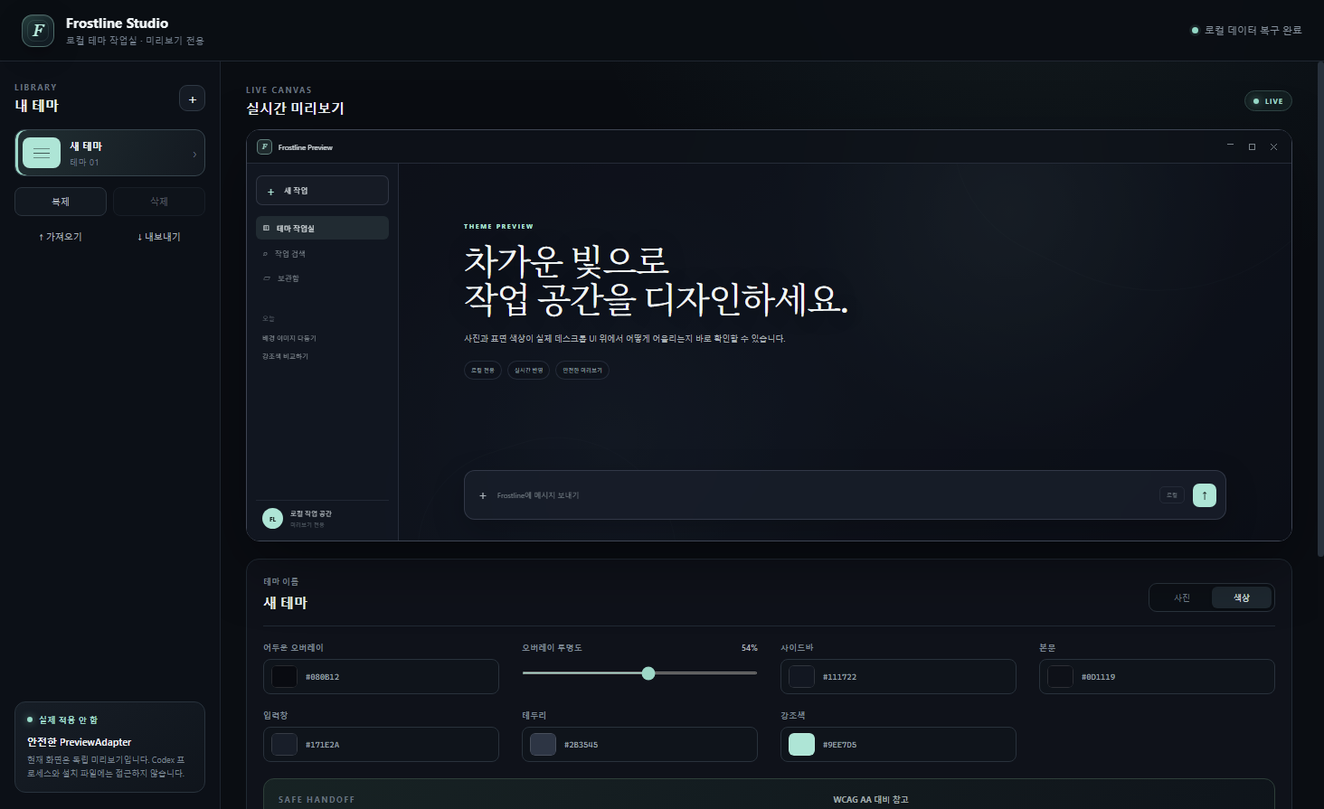
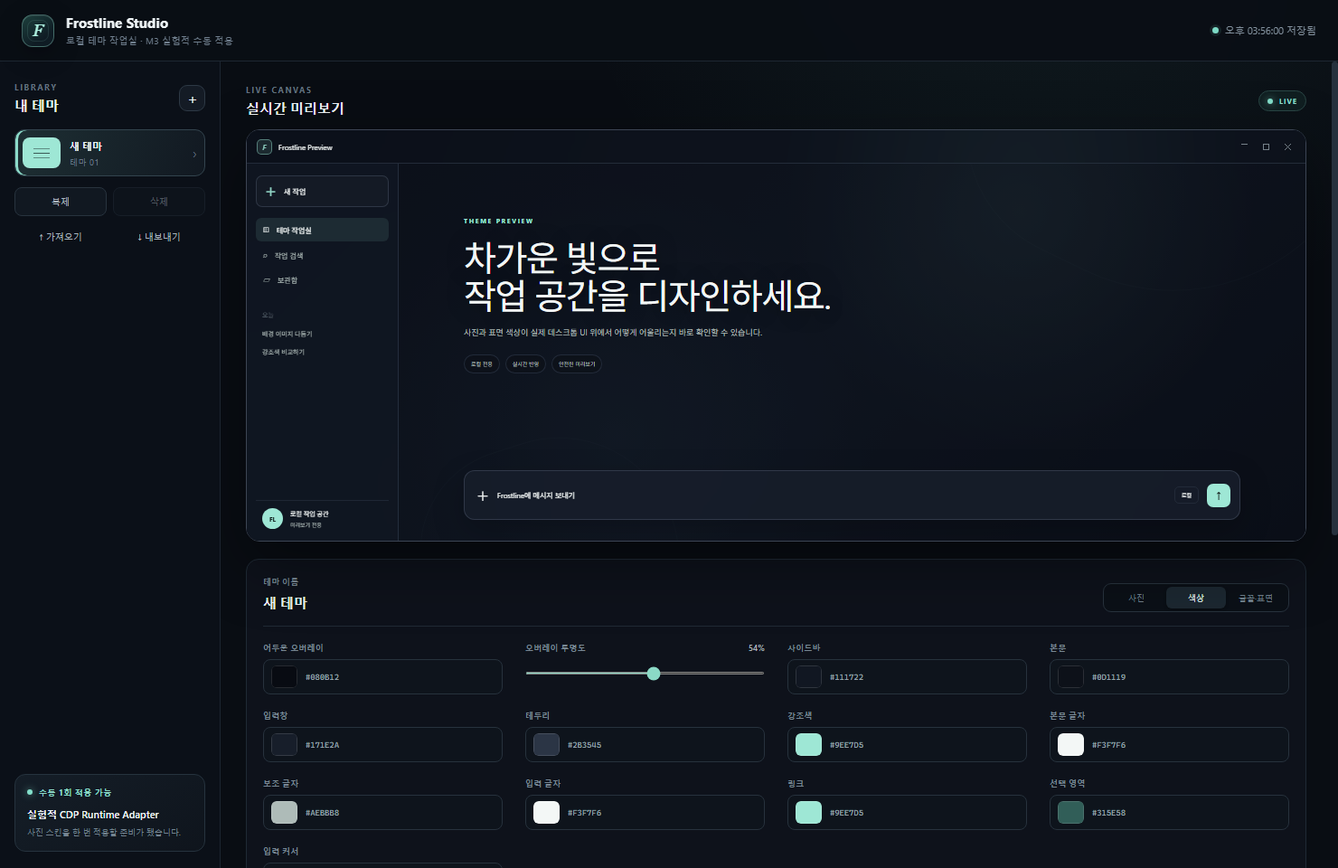
docs: document live Codex theme workflow

diff --git a/docs/testing.md b/docs/testing.md
@@ -30,8 +30,8 @@ npm.cmd run package:win
 ```
 
 - `lint`: Electron, React, 공유 타입, 테스트, 스크립트의 정적 규칙을 검사합니다.
-- `test`: 5개 테스트 파일의 16개 테스트를 실행합니다.
-- `build`: 기존 산출물을 정리하고 TypeScript 검사, Electron 컴파일, Renderer production build를 실행합니다.
+- `test`: 현재 9개 테스트 파일의 단위·UI 테스트 33개를 실행합니다.
+- `build`: 기존 산출물을 정리하고 TypeScript 검사, Windows Codex 실행 보조 프로그램 컴파일, Electron 컴파일, Renderer production build를 실행합니다.
 - `test:smoke`: 별도 임시 `userData`로 Electron을 두 번 실행합니다. 첫 실행에서 테마 이름과 밝기를 저장하고 두 번째 실행에서 같은 값이 복구되는지 확인합니다.
 - `screenshot`: production build 뒤 빈 임시 `userData`로 앱을 숨김 실행하고 공개용 PNG를 생성합니다. 개인 사진과 기존 로컬 설정을 읽지 않습니다.
 - `package:win`: `release/`를 안전하게 정리하고 unsigned x64 NSIS 설치 파일을 생성합니다. 이어서 ASAR 허용 목록과 민감정보 패턴을 검사하고 임시 폴더에 설치·실행·재실행·제거한 뒤 최종 파일의 SHA-256 목록을 만듭니다.
@@ -44,8 +44,17 @@ npm.cmd run package:win
 - 저장 요청이 겹쳐도 마지막 상태가 남음
 - 같은 프로세스 ID에 자동 적용을 두 번 시도하지 않는 상태 전이
 - 한 번 실패하면 수동 재시도 전까지 회로 차단 상태 유지
-- M1 UI에서 실제 Codex 적용과 자동 적용 버튼이 비활성 상태
-- WCAG 대비 계산과 읽기 쉬운 전경색 선택
+- M3 UI에서 수동 적용과 복원만 활성화되고 M4 자동 적용은 비활성 상태
+- 실행 중인 Codex를 앱이 닫지 않고 사용자 수동 종료를 요구함
+- 수동 종료 뒤 Codex 실행과 CDP 주입이 각각 한 번만 호출됨
+- 주입 실패 뒤 자동 재시도하지 않고 사용자의 다음 동작을 기다림
+- 주입한 Frostline 스타일만 복원함
+- 이미지 디코딩, 자연 크기, DOM 연결과 화면 크기를 확인한 뒤에만 적용 성공으로 판정함
+- 채팅 문자열을 읽지 않는 최소 호환성 프로필을 먼저 통과함
+- 활성 세션 갱신이 Codex를 추가로 실행하지 않음
+- 글자 역할별 WCAG 대비 계산과 읽기 쉬운 전경색·입력 커서 대체색 선택
+- BGRA 사진 표본 기반 추천 팔레트와 모드별 표면 불투명도
+- v1 로컬 작업 공간을 v2로 원자적으로 변환함
 - 수동 Appearance 가이드가 자동 적용을 주장하지 않는지 확인
 - 공개 예시 테마를 실제 가져오기 경로로 불러오기
 - UI에서 가이드 복사가 검증된 preload IPC만 사용하는지 확인
@@ -59,6 +68,21 @@ npm.cmd run package:win
 
 2026-08-12에 사용자가 README의 직접 확인 항목 1~6을 모두 정상 작동한다고 확인했습니다. 여기에는 원본 사진을 옮긴 뒤의 표시 유지, 실시간 편집 반영, 테마 관리와 가져오기·내보내기, 재실행 뒤 복구, M1 적용 버튼 비활성 상태가 포함됩니다.
 
-M2에서는 공식 문서와 로컬 프로세스의 기본 메타데이터만 읽기 전용으로 확인했습니다. 실제 Codex 테마 적용이나 복원은 테스트하지 않았으며 구현도 추가하지 않았습니다.
+M2에서는 공식 문서와 로컬 프로세스의 기본 메타데이터만 읽기 전용으로 확인했습니다.
+
+2026-08-13에는 이전 M3 구현을 Windows Store Codex `26.803.10989.0`에 실제 적용하고 복원하는 과정까지 사용자가 확인했습니다. 사진이 표시됐지만 첫 적용 성공 판정이 간헐적으로 실패했고 흰 입력창에서 입력 커서가 보이지 않는 문제를 발견했습니다. 이번 수정은 명시적 이미지 레이어, 입력 역할별 색상, 공통 토큰과 라이브 갱신으로 원인을 보완했으며 새 패키지에서 직접 회귀 검증해야 합니다.
 
 M5 자동 검증은 별도 임시 설치 경로에서 성공했습니다. 실제 바탕 화면 바로가기, Windows의 대화형 설치·제거 화면, SmartScreen 표시 상태는 사용자 환경에서 직접 확인해야 합니다. 코드 서명 인증서가 없으므로 게시자 신뢰 확인은 통과했다고 주장하지 않습니다.
+
+## 2026-08-13 최신 검증 결과
+
+| 명령 | 결과 | 확인 범위 |
+| --- | --- | --- |
+| `npm.cmd run lint` | 통과 | Electron, Renderer, 공유 타입과 테스트 정적 규칙 |
+| `npm.cmd test -- --run` | 9개 파일, 33개 테스트 통과 | 마이그레이션, 추천, UI, M3 적용·갱신·복원 |
+| `npm.cmd run build` | 통과 | TypeScript, Windows 보조 프로그램, Electron, Vite production build |
+| `npm.cmd run test:smoke` | 통과 | 빈 임시 `userData`의 저장과 Electron 재실행 복구 |
+| `npm.cmd run package:win` | 통과 | x64 NSIS, ASAR·비밀정보 검사, 임시 설치·재실행·제거, 체크섬 |
+| `npm.cmd run screenshot` | 통과 | 빈 임시 `userData`의 오프스크린 공개 스크린샷 |
+
+설치 파일은 `Frostline-Studio-0.2.0-Setup-x64.exe`이며 최종 패키지 검사 당시 크기는 100,467,342바이트였습니다. 빌드는 코드 서명되지 않았습니다.

diff --git a/docs/architecture.md b/docs/architecture.md
@@ -21,7 +21,12 @@ Electron main
   ├─ userData/images로 사진 복사
   ├─ 임시 파일 + 교체 방식의 설정 저장
   ├─ 테마 가져오기/내보내기
-  └─ 검증된 수동 Appearance 가이드만 클립보드에 복사
+  ├─ 관리 사진의 축소 BGRA 표본으로 로컬 추천 팔레트 계산
+  ├─ 검증된 수동 Appearance 가이드를 클립보드에 복사
+  └─ OfficialCodexAdapter
+       ├─ Windows 보조 프로그램: 패키지 ID 확인과 1회 실행
+       ├─ 127.0.0.1 CDP 대상 및 포트 소유자 검증
+       └─ 선택한 Renderer 하나에 사진 레이어와 테마 토큰 주입·갱신·제거
 ```
 
 Renderer에는 Node 전역 객체와 파일 경로가 노출되지 않습니다. 사진은 임의 파일 경로 대신 앱이 관리하는 읽기 전용 `frostline-asset://` URL로 표시합니다.
@@ -30,22 +35,25 @@ Renderer에는 Node 전역 객체와 파일 경로가 노출되지 않습니다.
 
 ## Adapter 경계
 
-- `PreviewAdapter`: React 안에서 CSS로만 렌더링합니다. 외부 프로세스 접근 권한이 없습니다.
-- `OfficialCodexAdapter`: M2 조사 결과 외부 프로그램용 공식 테마 적용 API가 확인되지 않아 기능을 모두 비활성화한 타입 계약으로 유지합니다.
+- `PreviewAdapter`: React 안에서 공통 테마 토큰으로만 렌더링합니다. 외부 프로세스 접근 권한이 없습니다.
+- `OfficialCodexAdapter`: 사용자 승인을 받은 실험적 M3 경계입니다. 실행 중인 Codex가 있으면 적용하지 않고 사용자의 정상 종료를 기다립니다. 이후 확인한 패키지 ID를 사용해 Codex를 한 번 실행하고, loopback CDP의 정확한 메인 Renderer 한 곳에만 사진 스킨을 주입합니다. 활성 세션에서는 새 프로세스 없이 같은 표식의 레이어만 갱신하며 첫 실패에 라이브 연결을 잠급니다.
 - `AppServerClientAdapter`: 공식 Codex App Server를 활용하는 독립 클라이언트가 필요할 때 검토할 미래 경계입니다. 공식 데스크톱 앱의 UI를 수정하는 Adapter가 아닙니다.
 
-Adapter가 분리되어 있어도 안전 승인이 생기는 것은 아닙니다. M3를 시작하려면 공식적으로 지원되는 적용 수단이 새로 확인되어야 하며, 그 뒤에도 사용자 승인이 별도로 필요합니다. 현재 결정의 근거는 [ADR-0001](adr/0001-codex-integration-boundary.md)에 기록했습니다.
+Adapter가 분리되어 있어도 공식 지원이나 안전 승인이 생기는 것은 아닙니다. M2의 공식 API 부재 결정은 [ADR-0001](adr/0001-codex-integration-boundary.md), 사용자가 승인한 M3의 제한된 CDP 결정은 [ADR-0002](adr/0002-loopback-cdp-runtime-skin.md)에 기록했습니다.
 
 ## 데이터 구조
 
 ```text
 Electron userData/Frostline Studio/
   ├─ themes.json
+  ├─ codex-cdp-session.json
   └─ images/
        └─ <random-uuid>.<approved-extension>
 ```
 
-원본 경로는 저장하지 않습니다. 앱 전용 사진은 무작위 파일명으로 복사하며 Renderer에는 관리 URL만 전달합니다. `themes.json`은 버전이 있는 JSON 문서입니다.
+원본 경로는 저장하지 않습니다. 앱 전용 사진은 무작위 파일명으로 복사하며 Renderer에는 관리 URL만 전달합니다. `themes.json`은 버전이 있는 JSON 문서이며 v1 데이터는 v2로 명시적으로 변환합니다. `codex-cdp-session.json`에는 사진이나 계정 데이터가 아니라 단계, 무작위 포트, 확인된 앱 ID, 주입 표식만 원자적으로 저장합니다.
+
+미리보기와 실제 Codex 컴파일러는 `resolveThemeTokens`를 함께 사용합니다. 이 공통 계층에서 표면 불투명도, 읽기 쉬운 글자·입력 커서 대체색, UI·코드 글꼴 스택을 계산하므로 두 화면의 색상 해석이 달라지는 범위를 줄입니다. 실제 Codex의 레이아웃과 자체 컴포넌트는 Frostline이 복제하지 않으므로 픽셀 단위로 완전히 같아지는 것은 보장하지 않습니다.
 
 ## Windows 배포 구조
 
@@ -79,4 +87,4 @@ disabled
 모든 활성 상태 ── EMERGENCY_STOP → emergency-stopped
 ```
 
-`handledProcessIds`로 같은 Codex 프로세스 ID에 두 번 적용하지 않습니다. 실패하면 회로 차단 상태가 되어 자동 재시도를 막습니다. M0/M1에서는 상태 머신만 정의하고 운영체제 이벤트나 Codex 프로세스와 연결하지 않습니다.
+`handledProcessIds`로 같은 Codex 프로세스 ID에 두 번 자동 적용하지 않습니다. 실패하면 회로 차단 상태가 되어 자동 재시도를 막습니다. 이 상태 머신은 아직 M4 운영체제 이벤트나 자동 시작에 연결하지 않았습니다. 현재 M3는 별도의 수동 `waiting-for-exit → armed → active` 세션만 사용하며, `active` 안의 라이브 갱신은 새 Codex 실행이나 새 CDP 세션을 만들지 않습니다.

diff --git a/docs/adr/0002-loopback-cdp-runtime-skin.md b/docs/adr/0002-loopback-cdp-runtime-skin.md
@@ -1,0 +1,50 @@
+# ADR-0002: Experimental loopback CDP runtime skin
+
+- Status: Accepted for manual M3 sessions
+- Date: 2026-08-13
+- Scope: M3 manual initial apply, same-session live update and restore
+
+## Context
+
+공식 Codex Appearance에는 색상과 글꼴 설정이 있지만 사진 배경을 외부 프로그램에서 적용하는 공개 API는 확인되지 않았습니다. 사용자는 이 제한을 이해한 뒤, 설치 파일이나 사용자 데이터는 수정하지 않으면서 현재 실행 화면에 사진을 적용할 수 있는 비공식 방법을 명시적으로 요청하고 다음 안전 조건을 승인했습니다.
+
+- 사용자가 Codex를 직접 정상 종료합니다.
+- Frostline Studio는 Codex를 강제 종료하거나 반복 실행하지 않습니다.
+- 연결은 `127.0.0.1`에만 열고 짧은 타임아웃을 사용합니다.
+- 한 번 실패하면 자동 재시도하지 않습니다.
+- 패키지, 설치 파일, `.codex`, `AGENTS.md`, 로그인·채팅 데이터는 수정하지 않습니다.
+
+## Decision
+
+1. `OfficialCodexAdapter`는 M3의 수동 적용과 복원만 제공합니다. 자동 적용 capability는 계속 `false`입니다.
+2. 실행 중인 Codex가 있으면 확인한 AUMID만 세션에 저장하고 적용을 중단합니다. 앱을 닫는 기능은 구현하지 않습니다.
+3. 사용자가 Codex를 종료하고 다시 적용을 누르면 Windows `IApplicationActivationManager`로 확인된 AUMID를 한 번 실행합니다. 인수는 loopback 주소와 무작위 CDP 포트뿐입니다.
+4. Windows TCP 테이블에서 포트 소유자의 AUMID가 앞서 확인한 Codex와 같은지 검증합니다.
+5. CDP 대상은 URL이 정확히 `app://-/index.html`인 page 하나만 허용합니다.
+6. 채팅 내용은 읽지 않고 문서 루트, Electron 창 유형과 알려진 표면 선택자 개수만 확인하는 호환성 프로필을 통과해야 합니다.
+7. 선택한 관리 사진을 data URL로 만들고 명시적인 `<div><img>` 레이어와 공통 테마 토큰 CSS를 고유 ID로 주입합니다.
+8. 적용 성공은 고유 표식, 이미지 디코딩, 자연 크기, DOM 연결, 화면 크기와 `pointer-events: none`을 같은 명령의 결과로 확인합니다.
+9. 활성 세션의 라이브 갱신은 같은 target ID와 표식을 재검증한 뒤 기존 레이어만 교체합니다. 새 Codex 프로세스나 새 포트를 만들지 않습니다.
+10. 라이브 갱신이 실패하면 이전 정상 레이어를 유지하고 UI의 라이브 연결을 잠급니다. 사용자가 수동 재연결을 누르기 전에는 다음 시도를 하지 않습니다.
+11. 복원은 고유 표식이 일치할 때 Frostline style과 레이어만 제거합니다. 원래 앱 파일이나 설정은 건드리지 않습니다.
+12. 모든 단계에는 제한 시간이 있으며 실패 후 반복 폴링이나 자동 재시도를 하지 않습니다. 수동 재시도는 사용자가 버튼을 다시 누른 경우에만 시작합니다.
+
+## Security and compatibility risks
+
+- CDP는 인증이 없는 로컬 디버깅 인터페이스입니다. loopback과 무작위 포트로 노출 범위를 줄이지만 같은 사용자 권한의 악성 로컬 프로그램까지 차단하지는 못합니다.
+- Codex가 실행되는 동안 CDP 포트가 유지됩니다. 사용을 마치면 Codex를 정상 종료해야 포트가 닫힙니다.
+- 앱 업데이트로 AUMID, 실행 인수 처리, 대상 URL, DOM 또는 CSS가 바뀌면 적용이나 복원이 실패할 수 있습니다.
+- 런타임 스타일은 프로세스 메모리에만 있으므로 Codex를 종료하면 사라집니다.
+- 일부 스타일만 적용되는 실패 가능성을 줄이기 위해 적용 직후 확인하고, 실패 시 같은 세션에서 Frostline style 제거를 한 번 시도합니다. 이 제거 시도는 적용 재시도가 아닙니다.
+
+## Rejected alternatives
+
+- 강제 종료와 재실행: 사용자 데이터 손실 위험과 명시된 금지 규칙 때문에 제외합니다.
+- `app.asar`, Store 패키지, 설치 파일 수정: 서명과 업데이트 무결성을 훼손하므로 제외합니다.
+- `.codex`나 내부 상태 파일 수정: 계정·대화 데이터 경계를 침범할 수 있어 제외합니다.
+- 주기적 폴링과 자동 재시도: 같은 실패를 반복할 수 있어 M3에서 제외합니다.
+- 다른 테마 프로그램의 호출 또는 코드·이미지 복사: 독립성과 라이선스 경계를 위해 제외합니다.
+
+## Validation target
+
+첫 수동 검증 대상인 Windows Store Codex `26.803.10989.0`에서 이전 구현의 실제 사진 적용과 복원은 사용자가 확인했습니다. 그 과정에서 첫 적용 판정의 간헐적 실패와 입력 커서 가독성 문제를 발견했습니다. 이번 명시적 이미지 레이어, 공통 토큰과 라이브 갱신 수정본은 같은 버전에서 회귀 검증하기 전까지 완료로 표시하지 않습니다.

diff --git a/docs/limitations.md b/docs/limitations.md
@@ -1,16 +1,23 @@
 # Known limitations
 
-## 미리보기 제품 범위
+## 제품 범위
 
-- 미리보기는 Codex에서 영감을 받은 독립 UI이며 실제 Codex 화면을 복제하거나 수정하지 않습니다.
-- 실제 Codex 적용과 복원 버튼은 비활성 상태로 표시됩니다.
+- 미리보기는 Codex에서 영감을 받은 독립 UI입니다.
+- 실제 Codex 적용과 복원은 사용자가 승인한 실험적 M3 기능입니다. 공식 OpenAI API가 아닙니다.
+- 실행 중인 Codex가 있으면 사용자가 직접 정상 종료해야 하며 Frostline Studio는 강제로 닫지 않습니다.
+- 스타일은 현재 실행 중인 Renderer 메모리에만 존재하므로 Codex를 종료하면 사라집니다.
+- Codex 업데이트로 앱 ID, 실행 인수, 대상 URL, DOM 또는 CSS 구조가 바뀌면 동작하지 않을 수 있습니다.
+- 적용 전 호환성 프로필은 루트, 창 유형과 알려진 선택자 개수만 확인합니다. 사용자 채팅 문자열은 읽지 않지만 이후 Codex 업데이트의 모든 UI 변경을 예측할 수는 없습니다.
+- 미리보기와 실제 적용은 같은 테마 토큰을 사용하지만 Codex 자체 레이아웃과 컴포넌트까지 복제하지 않으므로 픽셀 단위로 같지는 않습니다.
+- 라이브 갱신은 현재 검증된 세션에서만 동작합니다. 한 번 실패하면 이전 정상 화면을 유지하고 자동 갱신을 잠그며 사용자가 수동으로 다시 연결해야 합니다.
+- CDP가 열린 동안 같은 Windows 사용자 권한의 다른 로컬 프로그램이 디버깅 포트에 접근할 가능성을 완전히 없앨 수 없습니다.
 - Windows 자동 시작과 프로세스 이벤트 감지는 구현하지 않습니다.
 - Windows x64 NSIS 설치 파일은 제공하지만 ARM64 설치 파일과 Microsoft Store 패키지는 제공하지 않습니다.
 - 설치 파일은 코드 서명되지 않았으므로 Windows SmartScreen이 게시자를 확인할 수 없다는 경고를 표시할 수 있습니다.
 - 제거 프로그램은 사용자 사진과 테마가 들어 있는 앱 전용 데이터를 자동 삭제하지 않습니다. 완전 삭제가 필요하면 사용자가 앱 전용 데이터 폴더를 별도로 정리해야 합니다.
 - 가져오기 파일은 Frostline Studio JSON 형식만 지원합니다.
 - 앱 전용 데이터 폴더에서 참조되지 않는 이미지 정리는 저장 성공 뒤에만 수행합니다.
-- 접근성 검사는 강조색을 일반 텍스트처럼 사용할 때의 WCAG AA 4.5:1 기준을 참고값으로 보여 줍니다. 전체 UI 접근성 인증을 의미하지 않습니다.
+- 접근성 검사는 본문·보조·입력·링크·입력 커서 색상의 WCAG 대비를 참고값으로 보여 줍니다. 투명 표면 뒤 사진의 모든 픽셀이나 전체 UI 접근성 인증을 의미하지 않습니다.
 - Appearance 가이드는 색상값을 클립보드에 복사할 뿐 공식 Codex 앱을 자동으로 변경하지 않습니다.
 
 ## M2에서 확인한 공식 지원 범위
@@ -21,9 +28,9 @@
 - 공식 App Server는 인증, 대화 기록, 승인, 이벤트 스트리밍 같은 독립 클라이언트 기능을 제공합니다. 공식 데스크톱 앱의 UI 스타일을 변경하는 API로 문서화되어 있지 않습니다.
 - 외부 프로그램이 공식 데스크톱 앱의 테마를 가져오거나 적용하거나 복원하는 공식 API는 확인되지 않았습니다.
 
-문서에 없다는 사실만으로 내부 구현까지 절대 불가능하다고 단정할 수는 없습니다. 다만 공개 포트폴리오에서 지원 가능한 기능으로 표시할 근거가 없으므로 현재는 적용 기능을 구현하지 않습니다. DOM/CSS 주입, 원격 디버깅 연결, 패키지 수정, 내부 상태 파일 수정은 공식 지원이 아니며 안전·업데이트 호환성 기준을 충족하지 못해 채택하지 않습니다.
+문서에 없다는 사실만으로 내부 구현까지 절대 불가능하다고 단정할 수는 없습니다. M3는 이 한계를 분명히 표시한 실험적 기능이며, DOM/CSS 런타임 주입과 CDP 연결을 사용합니다. 패키지 수정과 내부 상태 파일 수정은 계속 금지합니다. 현재 확인 대상은 Windows Store Codex `26.803.10989.0`이며 다른 버전의 성공을 보장하지 않습니다.
 
-자세한 조사 범위와 로컬 확인 결과는 [M2 연동 가능성 조사](integration-research.md), 결정 근거는 [ADR-0001](adr/0001-codex-integration-boundary.md)에 기록했습니다.
+자세한 조사 범위와 로컬 확인 결과는 [M2 연동 가능성 조사](integration-research.md), M3 결정과 위험은 [ADR-0002](adr/0002-loopback-cdp-runtime-skin.md)에 기록했습니다.
 
 ## 라이선스와 공개 상태
 

diff --git a/docs/safety.md b/docs/safety.md
@@ -38,9 +38,27 @@
 - 제거 시 앱 전용 데이터를 자동 삭제하지 않습니다. 사용자가 고른 사진과 테마가 예상치 못하게 사라지는 일을 막기 위한 정책입니다.
 - 현재 빌드는 코드 서명되지 않았습니다. SmartScreen 경고를 우회하도록 안내하지 않으며, 릴리스에는 서명 상태와 SHA-256 검증 방법을 표시합니다.
 
-## 향후 단계의 승인 지점
+## M3 수동 적용 경계
 
-M2 조사에서는 외부 프로그램이 공식 Codex 앱에 사진 배경이나 테마를 적용하는 공식 API를 확인하지 못했습니다. 따라서 현재 상태에서는 사용자 승인만으로 M3를 시작하지 않습니다. 공식적으로 지원되는 수단이 새로 확인되면 안전성 검토와 테스트 계획을 먼저 작성하고, 사용자가 별도로 명시적으로 승인해야 수동 1회 적용을 시작합니다. M4 자동 적용은 M3가 충분히 검증된 뒤 다시 승인받아야 합니다.
+M2 조사에서는 공식 사진 배경 API를 확인하지 못했습니다. 이후 사용자가 비공식 런타임 방식의 위험을 이해하고 M3를 명시적으로 승인해, 다음 제한 아래 loopback CDP 실험을 구현했습니다.
+
+- Frostline Studio는 실행 중인 Codex를 닫지 않습니다. 사용자가 직접 정상 종료해야 다음 단계로 진행합니다.
+- Windows 보조 프로그램은 확인한 Codex 패키지 ID로 한 번만 실행하며 종료 API를 포함하지 않습니다.
+- CDP는 `--remote-debugging-address=127.0.0.1`과 무작위 포트만 사용합니다.
+- 포트 소유 프로세스의 패키지 ID가 앞서 확인한 Codex와 같아야 연결합니다.
+- 대상 URL이 정확히 `app://-/index.html`인 page Renderer가 하나일 때만 주입합니다.
+- 적용과 검증에는 짧은 타임아웃을 사용하며 실패 후 자동 재시도하지 않습니다.
+- 활성 세션의 라이브 갱신은 새 프로세스를 시작하지 않고 같은 target ID와 표식을 다시 확인합니다.
+- 라이브 갱신이 한 번 실패하면 이전 정상 화면을 유지하고 연결을 잠급니다. 사용자가 수동 재연결을 눌러야만 다음 시도를 시작합니다.
+- 호환성 검사는 화면 구조의 존재와 개수만 반환하며 채팅 문자열, 계정 정보나 파일 내용을 읽지 않습니다.
+- 복원은 Frostline Studio가 넣은 고유 표식의 `<style>`만 제거합니다.
+- 패키지 파일, 설치 파일, `.codex`, `AGENTS.md`, 로그인·채팅 데이터는 읽거나 수정하지 않습니다.
+
+CDP는 loopback에만 열어도 인증 기능이 없는 로컬 디버깅 인터페이스입니다. 같은 Windows 사용자 권한으로 실행되는 다른 프로그램이 무작위 포트를 알아내면 접근할 가능성이 있으므로, 적용이 끝난 뒤에도 불필요하게 오래 열어 두지 말고 사용을 마치면 Codex를 정상 종료해야 합니다.
+
+## M4 승인 지점
+
+M4 자동 적용은 구현하지 않았습니다. M3가 실제 Codex 버전에서 적용과 복원까지 충분히 검증된 뒤 사용자가 다시 승인해야 합니다.
 
 자동 적용을 구현하게 되면 다음 조건이 모두 필요합니다.
 

diff --git a/docs/integration-research.md b/docs/integration-research.md
@@ -6,7 +6,7 @@
 
 공식 Codex 데스크톱 앱에는 사용자가 직접 색상과 글꼴을 바꾸는 Appearance 설정이 있습니다. 그러나 사진 배경을 지정하거나 외부 프로그램이 사용자 테마를 적용·복원하는 공개 API는 공식 문서에서 확인되지 않았습니다.
 
-따라서 `OfficialCodexAdapter`는 구현하지 않습니다. M3 수동 1회 적용도 현재 조건에서는 진행하지 않습니다. 공식 지원 수단이 새로 공개되면 문서와 실제 설치 버전을 다시 확인한 뒤 별도 승인을 받아 재평가합니다.
+이 결론은 공식 지원 범위에 대해서는 그대로 유효합니다. 이후 사용자가 비공식 방법의 위험을 이해하고 제한된 M3 실험을 별도로 승인해 `OfficialCodexAdapter`를 구현했습니다. 구현 결정과 안전 조건은 [ADR-0002](adr/0002-loopback-cdp-runtime-skin.md)를 따릅니다.
 
 ## 공식 문서에서 확인한 내용
 
@@ -47,9 +47,9 @@ App Server는 공식 데스크톱 앱의 UI를 꾸미는 API가 아닙니다. `A
 
 프로세스 명령줄은 조회하지 않았습니다. 사용자 이름이 포함된 절대 경로, PID, 로그인 정보, 계정 데이터도 저장소에 기록하지 않았습니다. 다른 테마 프로그램은 실행하거나 호출하거나 수정하지 않았습니다.
 
-## M3 재검토 조건
+## 원래 M3 재검토 조건
 
-다음 조건을 모두 충족하기 전에는 M3를 시작하지 않습니다.
+M2 시점에는 다음 조건을 모두 충족하기 전에는 M3를 시작하지 않기로 했습니다. 이후 사용자가 공식 API 조건을 완화하고 수동 종료·loopback·무재시도 조건의 비공식 실험을 명시적으로 요청해 ADR-0002가 이 결정을 일부 대체했습니다.
 
 1. OpenAI가 외부 프로그램용 테마 적용 또는 확장 API를 공식 문서로 공개합니다.
 2. 실행 중인 Codex를 종료하거나 재시작하지 않고 한 번만 적용할 수 있습니다.

diff --git a/docs/theme-format.md b/docs/theme-format.md
@@ -1,13 +1,15 @@
 # Frostline theme format
 
-Frostline Studio의 내보내기 파일은 `.frostline-theme.json` 확장자를 사용하는 JSON 문서입니다. 현재 형식 버전은 `1`입니다.
+Frostline Studio의 내보내기 파일은 `.frostline-theme.json` 확장자를 사용하는 JSON 문서입니다. 현재 형식 버전은 `2`입니다.
 
 공개 Schema는 [schemas/frostline-theme.schema.json](../schemas/frostline-theme.schema.json), 사진이 없는 예시는 [examples/frostline-midnight.frostline-theme.json](../examples/frostline-midnight.frostline-theme.json)에 있습니다.
 
 ## 호환성 규칙
 
-- `format`은 `frostline-theme`, `version`은 `1`이어야 합니다.
+- 새 내보내기 파일은 `format: frostline-theme`, `version: 2`를 사용합니다.
+- 기존 `version: 1` 파일과 로컬 작업 공간은 가져오거나 열 때 v2 기본 글자·글꼴·표면 값을 채운 뒤 원자적으로 변환합니다.
 - 이름은 1~80자, 색상은 `#RRGGBB` 형식입니다.
+- UI·코드 글꼴은 앱의 허용 목록에 있는 Windows 기본 글꼴만 사용할 수 있습니다.
 - 숫자 범위는 Schema와 런타임 검증 코드가 동일하게 제한합니다.
 - 가져온 테마는 새 ID와 시각을 받아 기존 테마를 덮어쓰지 않습니다.
 - 알 수 없는 형식이나 범위를 벗어난 값은 저장 전에 거부합니다.
@@ -18,4 +20,4 @@ Frostline Studio의 내보내기 파일은 `.frostline-theme.json` 확장자를 
 
 ## 버전 변경
 
-호환되지 않는 변경에는 새 `version`을 사용하고 ADR과 마이그레이션 경로를 먼저 작성합니다. 기존 버전의 파일을 묵시적으로 다른 구조로 해석하지 않습니다.
+호환되지 않는 변경에는 새 `version`을 사용하고 명시적인 마이그레이션 경로를 함께 제공합니다. v1→v2 변환은 새 글자 역할, 글꼴과 표면 불투명도에 안전한 기본값을 채우며 원래 테마와 사진을 덮어쓰지 않습니다.

diff --git a/ROADMAP.md b/ROADMAP.md
@@ -2,7 +2,7 @@
 
 로드맵은 우선순위를 설명하며 완료 시점을 보장하지 않습니다. 실제 진행 상태는 GitHub issue와 milestone에서 관리합니다.
 
-## 현재: 안전한 공개 미리보기
+## 완료: 안전한 공개 미리보기와 패키징
 
 - [x] Electron 보안 기본값과 검증된 preload IPC
 - [x] 사진·색상 테마 편집과 로컬 복구
@@ -11,6 +11,18 @@
 - [x] 공식 연동 가능성 조사와 안전 ADR
 - [x] unsigned Windows x64 설치 파일과 설치·제거 자동 검사
 - [x] SHA-256 체크섬과 공개 패키징 워크플로
+
+## 현재: 실험적 수동 Codex 적용
+
+- [x] Adapter로 런타임 적용 코드 격리
+- [x] 사용자 수동 종료 요구와 강제 종료 금지
+- [x] `127.0.0.1` CDP, 포트 소유자와 대상 URL 검증
+- [x] 적용·복원 단위 테스트와 실패 후 무재시도
+- [x] 현재 Windows Codex 버전에서 사진 적용 수동 검증
+- [x] 현재 Windows Codex 버전에서 복원 수동 검증
+- [x] 글자·글꼴·표면 토큰과 사진 기반 추천 팔레트
+- [x] 활성 세션 라이브 갱신과 실패 시 잠금
+- [ ] 이미지 레이어와 라이브 갱신 수정본의 실제 Codex 회귀 검증
 
 ## 다음: 커뮤니티 사용성
 
@@ -21,6 +33,6 @@
 - [ ] Windows 코드 서명과 SmartScreen 평판 확보
 - [ ] ARM64 설치 파일 검증
 
-## 조건부: 공식 연동
+## 조건부: 자동 적용
 
-공식 외부 적용 API가 공개되고 복원 가능성이 검증될 때만 M3를 재검토합니다. DOM/CSS 주입, 패키지 수정, 프로세스 재시작은 로드맵에 포함하지 않습니다.
+M4 자동 적용은 M3의 적용·복원이 충분히 검증되고 사용자가 별도로 승인한 뒤에만 검토합니다. 패키지 수정, 강제 종료, 반복 재시작, 자동 재시도는 로드맵에 포함하지 않습니다.

diff --git a/CHANGELOG.md b/CHANGELOG.md
@@ -4,6 +4,31 @@
 
 ## [Unreleased]
 
+### Added
+
+- 사용자가 Codex를 직접 정상 종료한 뒤 사진 스킨을 한 번 적용하는 실험적 `OfficialCodexAdapter`
+- loopback CDP 대상, 포트 소유자와 Codex 패키지 ID 검증
+- Frostline 스타일만 제거하는 수동 복원
+- 수동 종료, 단일 시도, 실패 후 무재시도, 복원을 확인하는 테스트
+- 테마 파일 v2: 글자 역할별 색상, UI·코드 글꼴, 글자 크기, 표면 불투명도
+- 이전 v1 로컬 설정과 내보낸 테마를 v2로 원자적으로 변환하는 마이그레이션
+- 사진 평균색을 이용한 세 가지 추천 팔레트와 전체 글자 역할 대비 검사
+- 활성 Codex 세션에서 편집값을 바로 반영하고 첫 실패에 잠그는 라이브 갱신
+- 적용 실패 단계와 안전한 진단 코드를 실행 로그에 표시하는 진단 결과
+
+### Security
+
+- Windows 실행 보조 프로그램에서 모든 프로세스 종료 기능을 제외
+- CDP 주소를 `127.0.0.1`로 제한하고 자동 적용 capability는 비활성 상태로 유지
+- Codex 화면의 텍스트를 읽지 않고 루트·윈도 타입·선택자 개수만 확인하는 호환성 프로필 검사
+
+### Fixed
+
+- 첫 주입 직후 스타일 계산이 끝나기 전에 실패로 판정하던 방식을 실제 이미지 디코딩·크기·연결 상태 확인으로 교체
+- 어두운 오버레이가 사진뿐 아니라 전체 Codex UI까지 덮던 레이어 순서를 수정하고 주요 표면의 투명도를 조정
+- 입력창과 강조색이 같을 때 글자와 글자 커서가 사라지지 않도록 입력창 배경 대비가 높은 흑백 전경색을 자동 선택
+- 미리보기와 실제 Codex가 같은 색상·불투명도·글꼴 토큰을 사용하도록 통합
+
 ## [0.2.0] - 2026-08-12
 
 ### Added

diff --git a/docs/adr/0001-codex-integration-boundary.md b/docs/adr/0001-codex-integration-boundary.md
@@ -1,6 +1,6 @@
 # ADR-0001: Keep official Codex theme application disabled
 
-- Status: Accepted
+- Status: Superseded in part by ADR-0002
 - Date: 2026-08-12
 - Scope: M2 read-only feasibility research
 
